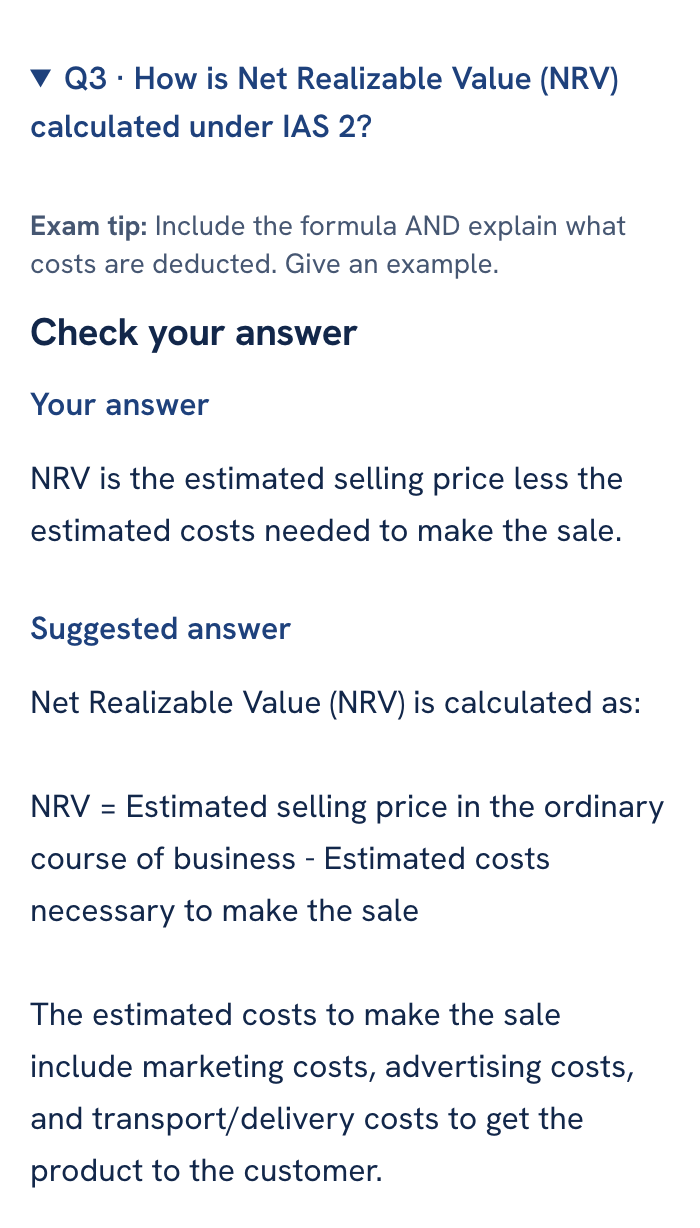
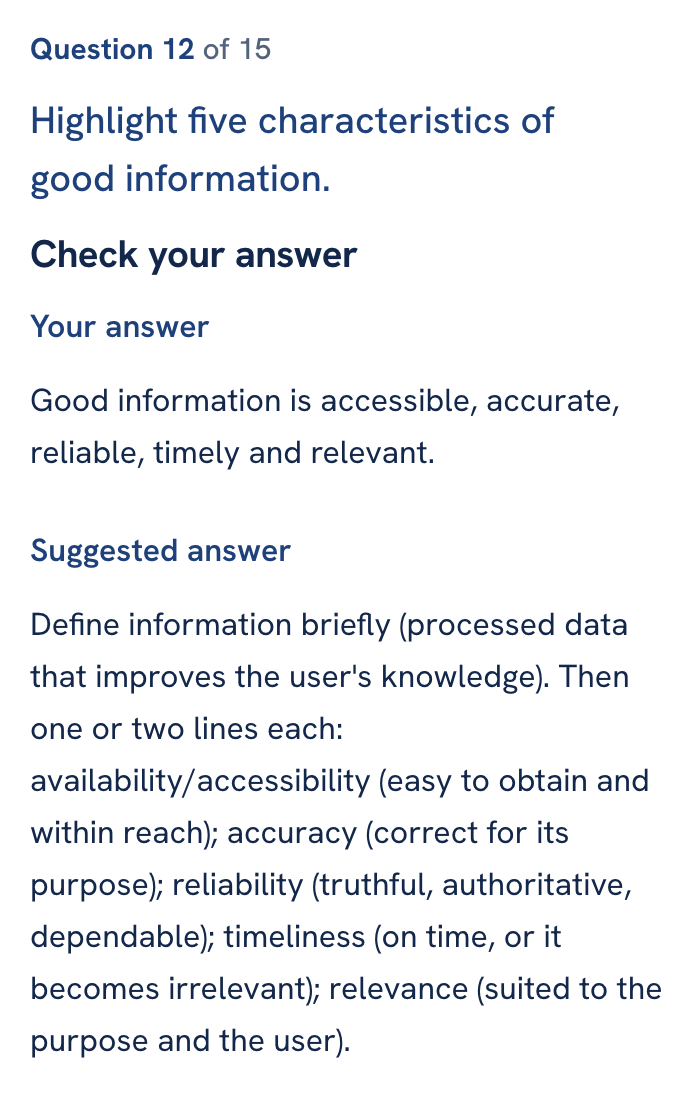
fix: landing page review findings

diff --git a/lib/landing/content.ts b/lib/landing/content.ts
@@ -7,7 +7,8 @@ export type IconName = 'past-questions' | 'notes' | 'exam' | 'upload'
 
 export type LandingImage = { src: string; width: number; height: number; alt: string }
 
-export type Feature = { icon: IconName; title: string; text: string; highlight?: boolean }
+/** A card names what you get; `text` adds one sentence where the name alone does not say it. */
+export type Feature = { icon: IconName; title: string; text?: string; highlight?: boolean }
 export type ShowcaseRow = {
   eyebrow: string
   title: string
@@ -30,6 +31,8 @@ export type FaqItem = { question: string; answer: string }
 
 const REGISTER = '/register'
 const LOGIN = '/login'
+// Said in the hero and again in the footer, in the same words.
+const PITCH = 'Verified past questions, study guides and timed exam practice for UNILAG Management Sciences students.'
 const NUMBER = new Intl.NumberFormat('en-GB')
 
 export const landingContent = {
@@ -49,13 +52,13 @@ export const landingContent = {
       { label: 'Try a question', href: '#try' },
       { label: 'FAQ', href: '#faq' },
     ] satisfies TextLink[],
-    login: { label: 'Log in', href: LOGIN },
+    login: { label: 'Sign in', href: LOGIN },
     register: { label: 'Create account', href: REGISTER },
   },
   hero: {
     titleLead: 'Walk into every exam already',
     titleEmphasis: 'prepared.',
-    lead: 'Verified past questions, study guides and timed exam practice for UNILAG Management Sciences students.',
+    lead: PITCH,
     primary: { label: 'Start for free', href: REGISTER },
     secondary: { label: 'Try a real question', href: '#try' },
     earlyAccess: 'Before launch: join Early Access for a free month',
@@ -126,8 +129,8 @@ export const landingContent = {
         text: 'Notes that follow your course outline, one topic at a time.' },
       { icon: 'exam', title: 'Exam mode',
         text: 'Timed practice that holds your results until the end.' },
-      { icon: 'upload', title: 'Campus Bot practice from your notes',
-        text: 'When a course has no study materials yet, Campus Bot builds practice questions from your notes.' },
+      // Named here only: the showcase row below explains it.
+      { icon: 'upload', title: 'Campus Bot practice from your notes' },
     ] satisfies Feature[],
   },
   // The only place that explains Campus Bot practice and theory practice.
@@ -147,8 +150,9 @@ export const landingContent = {
       title: 'Theory questions with suggested answers.',
       text: 'Practise theory questions and see a suggested answer for each one.',
       ticks: [],
+      // GST 111, theory question 12 of 15: the study guide's own question and suggested answer, word for word.
       shots: [
-        { src: '/landing/theory-answer.webp', width: 700, height: 1228, alt: 'A theory question with a typed answer and the suggested answer' },
+        { src: '/landing/theory-answer.webp', width: 700, height: 1098, alt: 'A theory question with a typed answer and the suggested answer' },
       ],
       flip: true,
     },
@@ -174,8 +178,6 @@ export const landingContent = {
         answer: `Courses for the ${LANDING_FIGURES.departments} departments of the Faculty of Management Sciences at UNILAG, added course by course.` },
       { question: 'Where do the questions come from?',
         answer: 'From past papers, class tests, course outlines and class notes, and our team vets every question.' },
-      { question: 'What if my course has no material yet?',
-        answer: 'Campus Bot builds practice questions from the notes you upload for that course.' },
       { question: 'Can I try it before paying?',
         answer: 'Yes: GST courses are free for every UNILAG student, and a new account can start a free pass for its department courses.' },
     ] satisfies FaqItem[],
@@ -184,14 +186,14 @@ export const landingContent = {
     title: 'Your next exam is closer than you think.',
     text: 'Create your account and start practising today.',
     primary: { label: 'Start for free', href: REGISTER },
-    secondary: { label: 'Log in', href: LOGIN },
+    secondary: { label: 'Sign in', href: LOGIN },
     community: 'Join the WhatsApp community',
-    facultyLead: 'Faculty not listed?',
+    facultyLead: 'Not in Management Sciences?',
     waitlist: 'Join the waitlist on WhatsApp',
     waitlistMessage: "I'd like to join the waitlist for my faculty.",
   },
   footer: {
-    text: 'Verified past questions, study guides and timed exam practice for UNILAG students.',
+    text: PITCH,
     productHeading: 'Product',
     product: [
       { label: 'Try a question', href: '#try' },

diff --git a/components/landing/landing.module.css b/components/landing/landing.module.css
@@ -162,9 +162,11 @@
 .landing .faqItem h3 { font-family: inherit; font-size: 1rem; }
 .faqSign { width: 30px; height: 30px; border-radius: 50%; background: var(--l-blue-soft); color: var(--l-blue); display: grid; place-items: center; flex: none; }
 .faqAnswer { color: var(--l-muted); padding-bottom: 20px; }
-.help { background: var(--l-surface); border: 1px solid var(--l-line); border-radius: 22px; padding: 24px; margin-top: 28px; display: flex; gap: 16px; align-items: center; }
+/* The words sit beside the picture while they have 12rem, the width that holds the email address whole; on a narrower
+   phone they go below it, so the address is never split. */
+.help { background: var(--l-surface); border: 1px solid var(--l-line); border-radius: 22px; padding: 24px; margin-top: 28px; display: flex; flex-wrap: wrap; gap: 16px; align-items: center; }
 .helpBot { width: 64px; height: auto; flex: none; }
-.help p { color: var(--l-muted); font-size: .95rem; }
+.help p { color: var(--l-muted); font-size: .95rem; flex: 1 1 12rem; }
 
 /* final call to action */
 .cta { background: var(--l-navy); border-radius: 36px; padding: clamp(36px, 6vw, 72px); position: relative; overflow: hidden; color: var(--l-on-navy); }

diff --git a/components/landing/Faq.tsx b/components/landing/Faq.tsx
@@ -25,7 +25,8 @@ export function Faq(): ReactElement {
                 {faq.helpInstagram}<span className="sr-only"> {landingContent.newTab}</span>
               </a>{' '}
               {faq.helpJoin}{' '}
-              <a href={`mailto:${CONTACT_EMAIL}`} className={`${INLINE_LINK} [overflow-wrap:anywhere]`}>{CONTACT_EMAIL}</a>.
+              {/* The address stays whole: the card gives it a line of its own where it would not fit (landing.module.css). */}
+              <a href={`mailto:${CONTACT_EMAIL}`} className={`${INLINE_LINK} whitespace-nowrap`}>{CONTACT_EMAIL}</a>.
             </p>
           </div>
         </div>

diff --git a/components/landing/LandingHeader.tsx b/components/landing/LandingHeader.tsx
@@ -8,7 +8,7 @@ import type { ReactElement } from 'react'
 
 const { brand, header } = landingContent
 
-/** Sticky landing header with no menu: phones show the logo, Log in and Create account; tablets add the two links. */
+/** Sticky landing header with no menu: phones show the logo, Sign in and Create account; tablets add the two links. */
 export function LandingHeader(): ReactElement {
   return (
     <header className={styles.header}>

diff --git a/components/landing/Features.tsx b/components/landing/Features.tsx
@@ -19,7 +19,7 @@ export function Features(): ReactElement {
             <li key={item.title} className={`${styles.fcard} ${item.highlight ? styles.fcardHi : ''}`}>
               <div className={styles.fcardIcon}><LandingIcon name={item.icon} size={24} /></div>
               <h3>{item.title}</h3>
-              <p>{item.text}</p>
+              {item.text && <p>{item.text}</p>}
             </li>
           ))}
         </ul>
